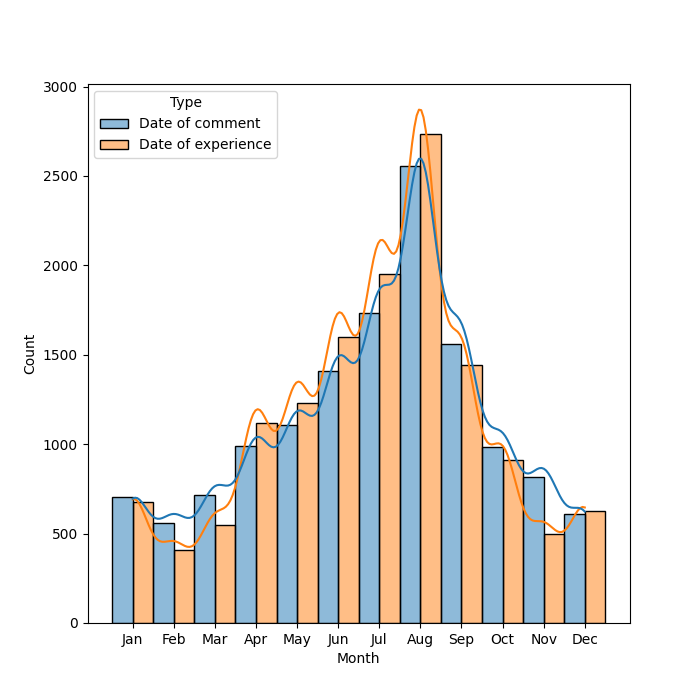
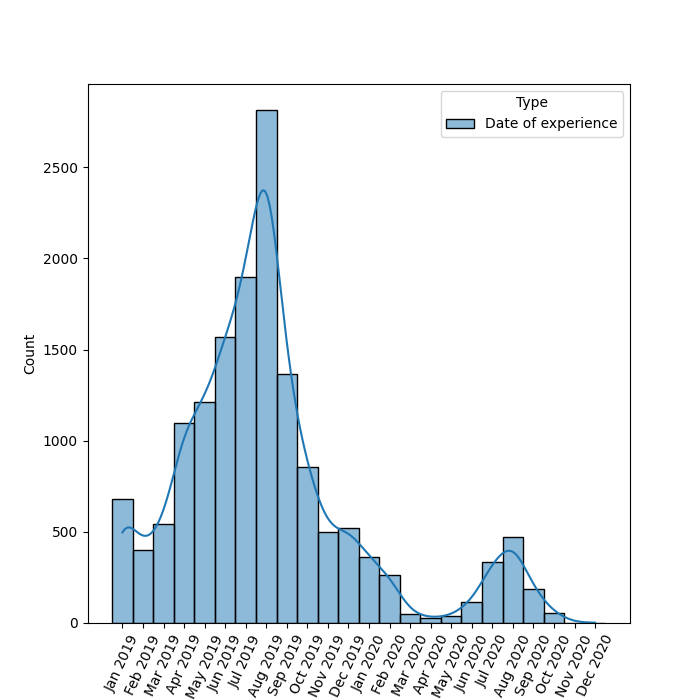
Preparing for analysis

diff --git a/masters/analyser/histograms/yearly_reviews_by_month.py b/masters/analyser/histograms/yearly_reviews_by_month.py
@@ -1,5 +1,4 @@
-# naredi graf, frekvenčne porazdelitve števila komentarjev po mesecih
-# frekvenca med datumom objave in datumom izkušnje
+# naredi graf, frekvenčne porazdelitve števila komentarjev po mesecih zadnjih treh let kjer naj se vidi corona
 
 import seaborn as sns
 import matplotlib.pyplot as plt
@@ -8,33 +7,33 @@ import pandas as pd
 from masters.data_managers.utils import database_utils
 
 
-# df = sns.load_dataset('iris')
 def map_date(date):
     month = date[4:6]
+    year = " " + date[0:4]
     if month == "01":
-        return "Jan"
+        return "Jan" + year
     if month == "02":
-        return "Feb"
+        return "Feb" + year
     if month == "03":
-        return "Mar"
+        return "Mar" + year
     if month == "04":
-        return "Apr"
+        return "Apr" + year
     if month == "05":
-        return "May"
+        return "May" + year
     if month == "06":
-        return "Jun"
+        return "Jun" + year
     if month == "07":
-        return "Jul"
+        return "Jul" + year
     if month == "08":
-        return "Aug"
+        return "Aug" + year
     if month == "09":
-        return "Sep"
+        return "Sep" + year
     if month == "10":
-        return "Oct"
+        return "Oct" + year
     if month == "11":
-        return "Nov"
+        return "Nov" + year
     if month == "12":
-        return "Dec"
+        return "Dec" + year
 
 
 def get_monthly_visits(country, year_from, year_to):
@@ -44,18 +43,18 @@ def get_monthly_visits(country, year_from, year_to):
                  join locations l on provinces.province_url = l.attraction_parent_url
                  join reviews r on l.attraction_url = r.parent_url
         where country = '{country}'
-          and r.review_date > {year_from}
-          and r.review_date < {year_to}
-        order by review_date
+          and r.review_experience_date > {year_from}
+          and r.review_experience_date < {year_to}
+        order by review_experience_date
             """.format(country=country, year_from=year_from, year_to=year_to)
     connection = database_utils.create_connection("../../data/databases/slo_aus_ita_hun_cro.db")
     data = database_utils.get_data(connection, sql)
 
     month_arr = []
     type_arr = []
-    for el in data:
-        month_arr.append(map_date(el[1]))
-        type_arr.append("Date of comment")
+    #for el in data:
+    #    month_arr.append(map_date(el[1]))
+    #    type_arr.append("Date of comment")
 
     for el in data:
         month_arr.append(map_date(el[0]))
@@ -67,9 +66,10 @@ def get_monthly_visits(country, year_from, year_to):
     # sns.distplot(df, label="2020")
     sns.histplot(data=df, x="Month", hue="Type", kde=True,
                  multiple="dodge")
+    plt.xticks(rotation=65)
     plt.savefig(f'{country}-{year_from}.png'.format(country=country, year_from=year_from))
     plt.show()
 
 
-get_monthly_visits('slovenia', 20200100, 20210100)
+get_monthly_visits('slovenia', 20190100, 20210200)
 # get_monthly_visits('slovenia', 20190100, 20200100)
